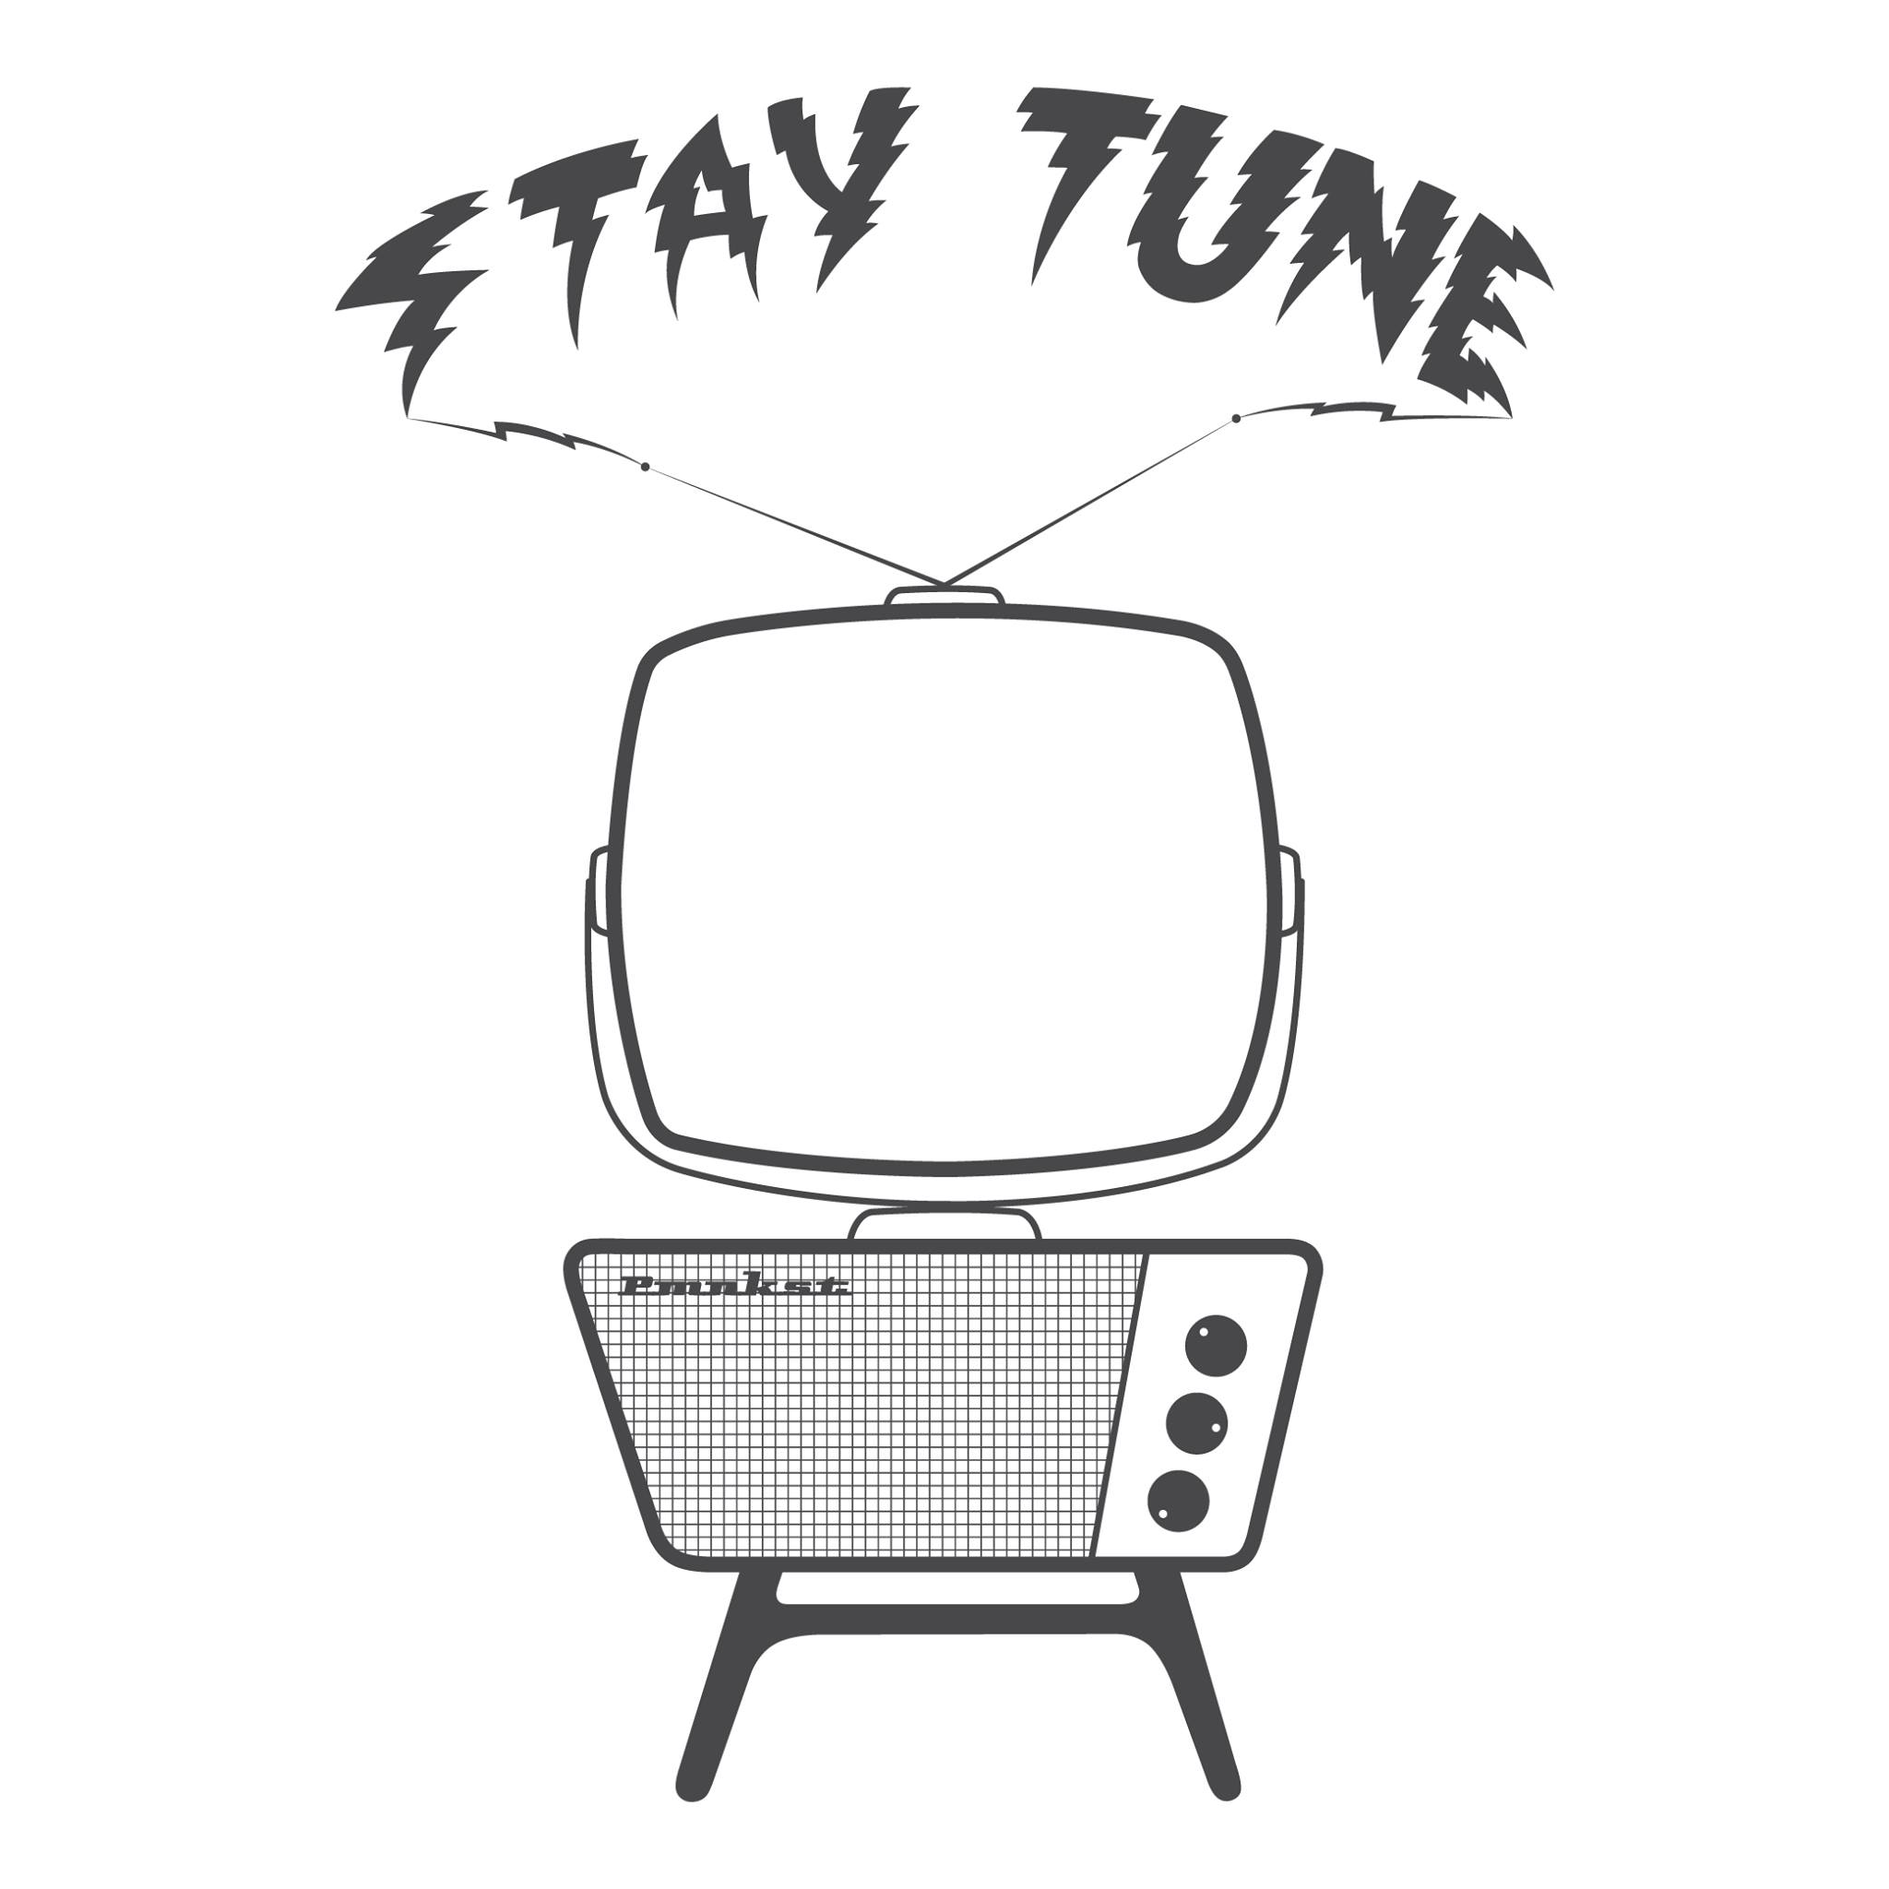
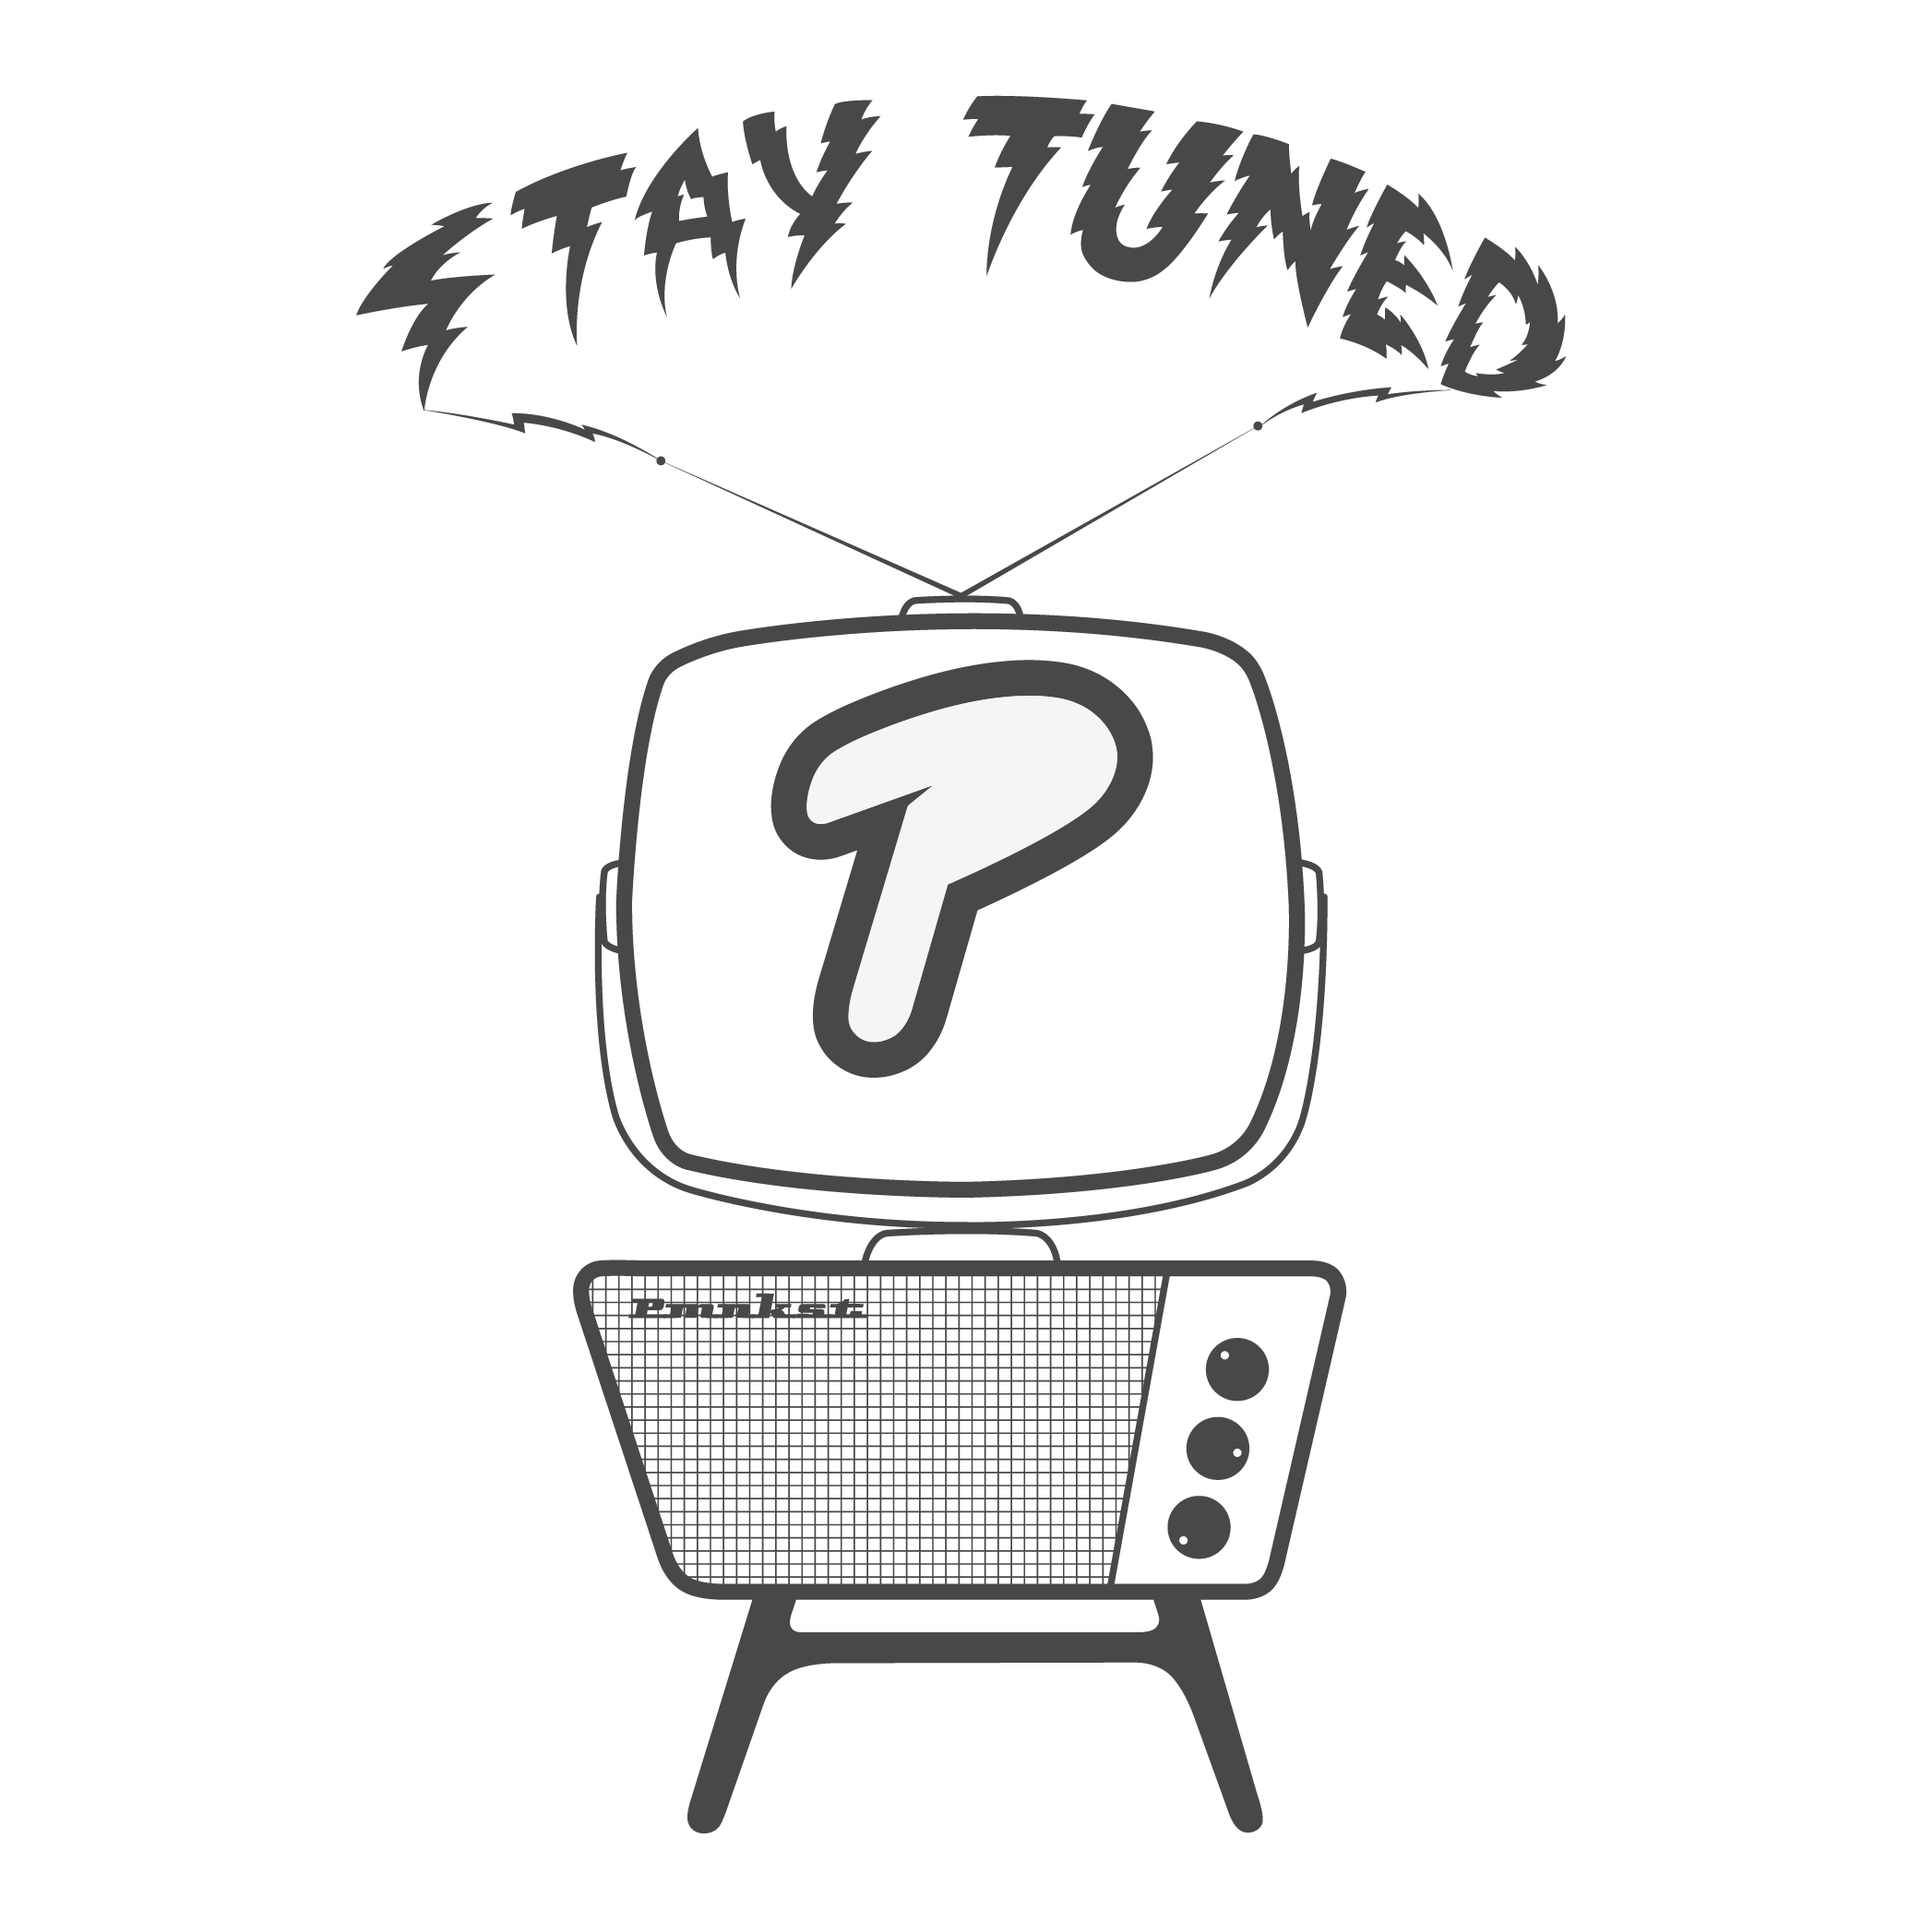
Added updated stay tuned image and moved text to bottom

diff --git a/sass/_header.scss b/sass/_header.scss
@@ -14,14 +14,8 @@
 }
 
 .stay-tuned {
-	position: relative;
 
 	.header-text {
-		position: absolute;
-		width: 32%;
-		top: 40%;
-		left: 50%;
-		margin-left: -16%;
 
 		p {
 			text-align: center;
@@ -32,20 +26,6 @@
 			}
 		}
 
-		@media screen and (max-width: 530px) {
-			font-size: 80%;
-		}
-		
-		@media screen and (max-width: 390px) {
-			font-size: 60%;
-		}
-
-		@media screen and (max-width: 270px) {
-			top: 100%;
-			left: 0px;
-			width: 100%;
-			margin: auto;
-		}
 	}
 
 	.stay-tuned_img {

diff --git a/index.html b/index.html
@@ -19,8 +19,8 @@
 -->
 		</a>
 			<div class="stay-tuned">
-				<div class="header-text"><p>Brought to you by <a href="http://talentedunicorn.com">talentedunicorn</a></p></div>
 				<img class="stay-tuned_img" src="images/src/stay_tuned.jpg" alt="Stay tuned">
+				<div class="header-text"><p>Brought to you by <a href="http://talentedunicorn.com">talentedunicorn</a></p></div>
 			</div>
 		</div>
 	</header>
